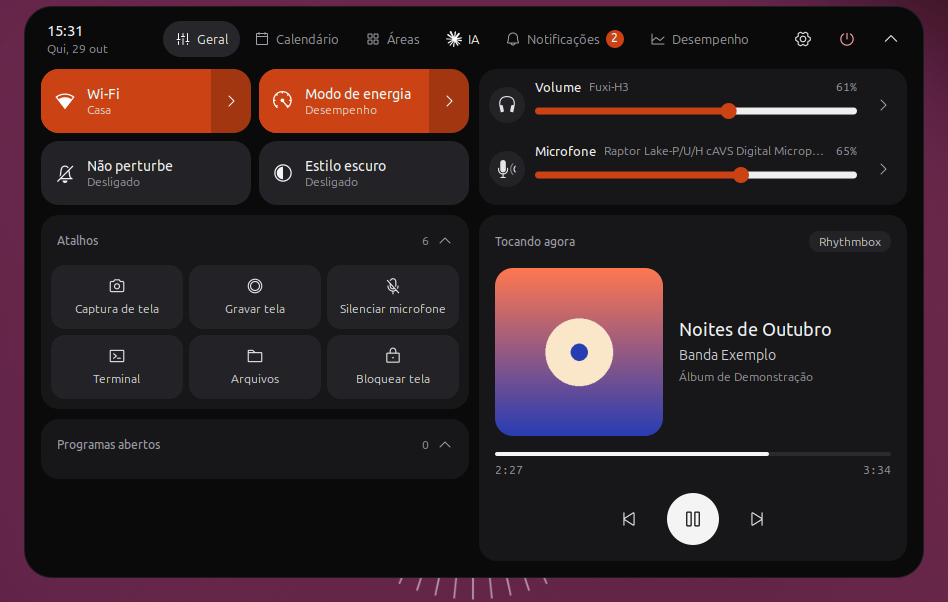
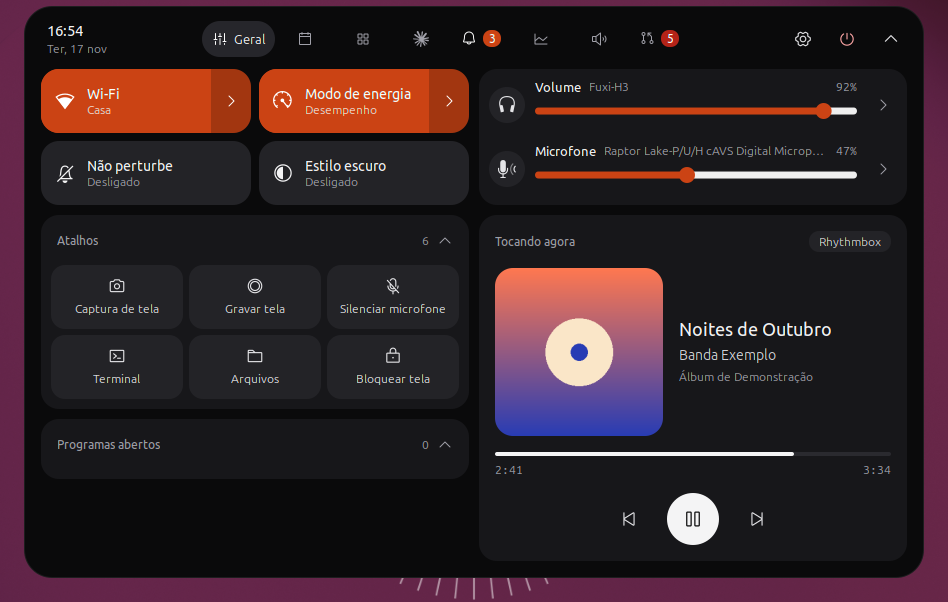
docs: github na ilha e abas só com ícone

diff --git a/linux/README.md b/linux/README.md
@@ -1,12 +1,13 @@
 # Frodo para Linux
 
-Versão GNOME Shell do [Frodo](../README.md). Dynamic island leve para GNOME Shell 50. A pílula mostra hora, bateria, RAM e uso do Claude Code, Codex e Gemini CLI e muda conforme o que acontece no sistema; ao abrir, vira uma ilha com seis abas.
+Versão GNOME Shell do [Frodo](../README.md). Dynamic island leve para GNOME Shell 50. A pílula mostra hora, bateria, RAM e uso do Claude Code, Codex e Gemini CLI e muda conforme o que acontece no sistema; ao abrir, vira uma ilha com oito abas, uma delas com os pull requests do GitHub que precisam de você.
 
 Roda dentro do próprio gnome-shell (sem processo extra). Escrita em TypeScript e compilada para JavaScript.
 
 <p align="center"><img src="docs/demo.gif" alt="Pílula recebendo uma notificação e mostrando o Claude trabalhando; depois a ilha abre e passa pelas abas" width="720"></p>
 
 - [Abas](#abas)
+- [GitHub](#github)
 - [Estados da pílula](#estados-da-pílula)
 - [Posição](#posição), [Fundo](#fundo) e [Animações](#animações)
 - [Instalação](#instalação)
@@ -24,6 +25,9 @@ Roda dentro do próprio gnome-shell (sem processo extra). Escrita em TypeScript 
 | Notificações      | Lista de notificações, não perturbe e limpar tudo                                                                                                                                                                                                                                                          |
 | Desempenho        | CPU, memória, GPU e disco, com histórico de 60 s; os 5 processos que mais gastam, ordenáveis por CPU, RAM ou GPU, com botão para encerrar (pede confirmação; processos de outro usuário ou essenciais à sessão têm cadeado). Só lê `/proc` com a aba aberta                                                |
 | Mixer             | Volume e silenciar de cada app com som aberto (mais Sons do sistema), a saída e o microfone com troca de dispositivo e os apps usando o microfone, cada um com Silenciar/Ativar                                                                                                                            |
+| GitHub            | Seus pull requests abertos que precisam de algo (conflito, alterações pedidas, CI falhando, pronto para merge) e as revisões pedidas a você, com filtros, detalhe de cada PR, checks e o contador de alertas no cabeçalho. Veja [GitHub](#github)                                                          |
+
+No cabeçalho, só a aba selecionada mostra o nome; as outras ficam só com o ícone (e o contador, quando há).
 
 <table>
   <tr>
@@ -38,30 +42,45 @@ Roda dentro do próprio gnome-shell (sem processo extra). Escrita em TypeScript 
     <td><img src="docs/desempenho.png" alt="Aba Desempenho: CPU, memória, GPU, disco e processos"><br><sub>Desempenho</sub></td>
     <td><img src="docs/areas.png" alt="Aba Áreas de trabalho com duas áreas e o card Nova área"><br><sub>Áreas de trabalho</sub></td>
   </tr>
+  <tr>
+    <td><img src="docs/github.png" alt="Aba GitHub: filtros, PRs com conflito, alterações pedidas, CI falhando, revisões e pronto para merge"><br><sub>GitHub</sub></td>
+    <td><img src="docs/github-conflito.png" alt="Aba GitHub com um PR em conflito aberto: comando de rebase, checks e botões"><br><sub>GitHub · PR em conflito</sub></td>
+  </tr>
 </table>
 
-A engrenagem do cabeçalho abre as configurações, todas dentro da ilha, numa barra lateral com seis seções: Geral (comportamento e atalhos), Tela e posição (grade 3×3, monitores, fundo e barra superior), Pílula, Abas, IA (intervalo de atualização, restante ou usado, e um grupo por assistente com o switch Acompanhar, perfis do Claude, hooks do Codex e do Gemini e limite diário do Gemini) e Agenda (Google Agenda e aviso antes da reunião); não há janela de preferências separada. O botão ao lado dela abre o menu de energia (suspender, encerrar sessão, reiniciar e desligar). Durante uma gravação de tela, o cabeçalho mostra Parar gravação. Em Configurações › Abas dá para ocultar cada aba e mudar a ordem delas arrastando pela alça (ou com ↑ ↓ na alça focada); a ilha abre na primeira aba visível. Se todas forem ocultadas, a primeira continua visível.
+A engrenagem do cabeçalho abre as configurações, todas dentro da ilha, numa barra lateral com sete seções: Geral (comportamento e atalhos), Tela e posição (grade 3×3, monitores, fundo e barra superior), Pílula, Abas, IA (intervalo de atualização, restante ou usado, e um grupo por assistente com o switch Acompanhar, perfis do Claude, hooks do Codex e do Gemini e limite diário do Gemini), GitHub (conta, repositórios, alertas e onde avisar) e Agenda (Google Agenda e aviso antes da reunião); não há janela de preferências separada. O botão ao lado dela abre o menu de energia (suspender, encerrar sessão, reiniciar e desligar). Durante uma gravação de tela, o cabeçalho mostra Parar gravação. Em Configurações › Abas dá para ocultar cada aba e mudar a ordem delas arrastando pela alça (ou com ↑ ↓ na alça focada); a ilha abre na primeira aba visível. Se todas forem ocultadas, a primeira continua visível.
 
 <p align="center"><img src="docs/configuracoes.png" alt="Configurações dentro da ilha: barra lateral com seções e a seção Geral aberta" width="640"></p>
+
+## GitHub
+
+A aba GitHub lê os seus pull requests abertos e as revisões pedidas diretamente a você pela API GraphQL do GitHub, com o token que o GitHub CLI já guardou no chaveiro do GNOME (`gh auth login`); sem chaveiro, ele lê o `~/.config/gh/hosts.yml`. Em Configurações › GitHub dá para trocar para um token pessoal (só leitura de PRs e checks), salvo no chaveiro e nunca no GSettings. A busca roda a cada 2, 5, 10 ou 15 min (padrão 5), de 20 em 20 PRs, sem lançar processo; "Todos os meus" busca em qualquer repositório e "Só estes" limita a uma lista `dono/repositório`.
+
+Cada PR ganha um tipo, nesta ordem: Conflito (o merge não sai sozinho; mostra quantos commits a base recebeu e o comando de rebase para copiar), Alterações pedidas (com o texto da revisão), CI falhou (com os checks), Revisão pedida a você e Pronto para merge. PR seu que só espera revisão ou checks rodando fica de fora. O botão principal abre o PR no navegador (no CI, a aba de checks; na revisão, os arquivos). Pedido de revisão feito só ao seu time não aparece.
+
+Um alerta sai quando um PR entra num tipo ligado em "Alertar quando" (conflito, alterações pedidas, CI e revisão): na pílula, por 5 segundos, com o botão Ver, que abre a aba no PR; na aba Notificações, sem banner, até você abrir ou dispensar; e no contador vermelho do cabeçalho. Cada um desses três tem o seu switch em "Onde avisar". O primeiro ciclo ao entrar na sessão, ao trocar de conta ou de repositórios só registra o que já existe, sem avisar. Dá para silenciar um PR pelo detalhe dele.
+
+<p align="center"><img src="docs/configuracoes-github.png" alt="Configurações › GitHub: conta, como conecta, repositórios, alertas e onde avisar" width="640"></p>
 
 ## Estados da pílula
 
 <p align="center"><img src="docs/pilula-repouso.png" alt="Pílula em repouso com hora, data, notificações, rede e bateria"></p>
 
-Fechada, a pílula mostra hora, data, notificações, rede e bateria. Em Configurações › Pílula dá para escolher o modo (Mínimo, só o relógio; Compacto, tudo junto; Rotativo, com bateria, RAM e as cotas de IA revezando num espaço a cada poucos segundos), a ordem dos itens (arrastando o chip pela alça, ou com ← → na alça focada) e quais entram, com uma prévia da pílula de verdade no topo. Os ícones do sistema podem entrar separados (Bluetooth, Som, Microfone, Não perturbe e Bateria, os mesmos da barra superior, que só aparecem quando o GNOME os mostra; "Mostrar porcentagem da bateria" em Configurações › Pílula liga a porcentagem nativa do GNOME; "RAM em porcentagem" troca `RAM 9.8G` por `RAM 61%`) e o resto fica em "Outros ícones do sistema", sem repetir rede e bateria. Codex · 5 h, Codex · semana e Gemini · hoje entram com um anel na cor do assistente; itens de um assistente desligado em Configurações › IA somem. Há também "Ícones de extensões": os indicadores que outras extensões põem na barra superior (AppIndicator, monitores de recurso e afins) aparecem na pílula, só para ver; clicar continua abrindo a ilha. Quando algo acontece, ela troca para uma atividade por no máximo 5 segundos e volta ao repouso; a mesma atividade só reaparece quando muda (gravação nova, outra faixa, música retomada). A IA trabalhando (Claude Code, Codex e Gemini CLI, com o repo e o arquivo ou comando do passo) segue "Atividade da IA" em Configurações › Pílula: Ao mudar (padrão) mostra cada passo novo por 3 segundos e ignora as trocas da mesma sessão nos 10 segundos seguintes, para não piscar; Sempre deixa a sessão com o evento mais recente na pílula enquanto trabalha; Nunca não mostra. Pedido de permissão e sessão esperando aparecem em qualquer modo. Abrir a ilha dá como vistas as atividades em andamento. Com mais de uma ao mesmo tempo, vale esta ordem de prioridade, e a que foi interrompida volta depois com o tempo inteiro (5 segundos; 3 para a IA trabalhando):
+Fechada, a pílula mostra hora, data, notificações, rede e bateria. Em Configurações › Pílula dá para escolher o modo (Mínimo, só o relógio; Compacto, tudo junto; Rotativo, com bateria, RAM e as cotas de IA revezando num espaço a cada poucos segundos), a ordem dos itens (arrastando o chip pela alça, ou com ← → na alça focada) e quais entram, com uma prévia da pílula de verdade no topo. Os ícones do sistema podem entrar separados (Bluetooth, Som, Microfone, Não perturbe e Bateria, os mesmos da barra superior, que só aparecem quando o GNOME os mostra; "Mostrar porcentagem da bateria" em Configurações › Pílula liga a porcentagem nativa do GNOME; "RAM em porcentagem" troca `RAM 9.8G` por `RAM 61%`) e o resto fica em "Outros ícones do sistema", sem repetir rede e bateria. Codex · 5 h, Codex · semana e Gemini · hoje entram com um anel na cor do assistente; itens de um assistente desligado em Configurações › IA somem. O item GitHub mostra o ícone de PR com o número de alertas (some quando não há). Há também "Ícones de extensões": os indicadores que outras extensões põem na barra superior (AppIndicator, monitores de recurso e afins) aparecem na pílula, só para ver; clicar continua abrindo a ilha. Quando algo acontece, ela troca para uma atividade por no máximo 5 segundos e volta ao repouso; a mesma atividade só reaparece quando muda (gravação nova, outra faixa, música retomada). A IA trabalhando (Claude Code, Codex e Gemini CLI, com o repo e o arquivo ou comando do passo) segue "Atividade da IA" em Configurações › Pílula: Ao mudar (padrão) mostra cada passo novo por 3 segundos e ignora as trocas da mesma sessão nos 10 segundos seguintes, para não piscar; Sempre deixa a sessão com o evento mais recente na pílula enquanto trabalha; Nunca não mostra. Pedido de permissão e sessão esperando aparecem em qualquer modo. Abrir a ilha dá como vistas as atividades em andamento. Com mais de uma ao mesmo tempo, vale esta ordem de prioridade, e a que foi interrompida volta depois com o tempo inteiro (5 segundos; 3 para a IA trabalhando):
 
 1. Notificação recebida (qualquer uma que não seja crítica), por 5 segundos cada. Vira um card com o avatar arredondado, o app, o título e o corpo. Notificações que chegam com a tela bloqueada aparecem na pílula ao desbloquear. Quando a RAM passa de 90% em uso, o Frodo manda a notificação "Memória alta" (de novo só depois de cair abaixo de 80%). Quando uma sessão do Claude Code, Codex ou Gemini CLI termina a resposta, sai "Pronto" com o ícone e o nome do assistente e o repo (desliga em Configurações › IA › Uso, "Avisar quando terminar"). Quando uma cota (Claude 5 h e semana, Codex 5 h e semana, Gemini dia) cruza 80% ou 95%, sai "Cota em 80%" ou "Cota em 95%", uma vez por janela e com o ícone do assistente, e "Cota renovada" quando ela volta para baixo de 80% ("Avisar cota em 80% e 95%", no mesmo lugar).
 2. Gravação de tela, com o tempo e o botão Parar (o cabeçalho da ilha também tem Parar gravação).
 3. Pedido de permissão do Claude Code ou do Codex, com a ferramenta e os botões Negar e Aprovar (o mais antigo, se houver vários).
 4. Sessão esperando permissão sem pedido aberto pela ilha (sempre o caso do Gemini CLI), com o botão Abrir.
 5. Reunião em breve, com a contagem regressiva e o botão Entrar quando o evento tem link do Google Meet (lido do Evolution Data Server); sem link, o botão Abrir leva ao Calendário.
-6. Volume alterado, por 1,5 segundo.
-7. Sessão de IA trabalhando, com o repo, o passo (arquivo ou comando) e o tempo, conforme "Atividade da IA" (Ao mudar, Sempre ou Nunca).
-8. Música tocando, com capa redonda, título e botão de pausa.
+6. Alerta do GitHub ("frodo#42 está com conflito"), por 5 segundos, com o botão Ver; vários no mesmo ciclo mostram o mais importante e "+N".
+7. Volume alterado, por 1,5 segundo.
+8. Sessão de IA trabalhando, com o repo, o passo (arquivo ou comando) e o tempo, conforme "Atividade da IA" (Ao mudar, Sempre ou Nunca).
+9. Música tocando, com capa redonda, título e botão de pausa.
 
-| Notificação                                                              | Pedido de permissão                                                    | Sessão trabalhando                                                          |
-| ------------------------------------------------------------------------ | ---------------------------------------------------------------------- | --------------------------------------------------------------------------- |
-| <img src="docs/pilula-notificacao.png" alt="Pílula com uma notificação"> | <img src="docs/pilula-permissao.png" alt="Pílula com Negar e Aprovar"> | <img src="docs/pilula-claude.png" alt="Pílula com o passo atual do Claude"> |
+| Notificação                                                              | Pedido de permissão                                                    | Sessão trabalhando                                                          | Alerta do GitHub                                                      |
+| ------------------------------------------------------------------------ | ---------------------------------------------------------------------- | --------------------------------------------------------------------------- | --------------------------------------------------------------------- |
+| <img src="docs/pilula-notificacao.png" alt="Pílula com uma notificação"> | <img src="docs/pilula-permissao.png" alt="Pílula com Negar e Aprovar"> | <img src="docs/pilula-claude.png" alt="Pílula com o passo atual do Claude"> | <img src="docs/pilula-github.png" alt="Pílula com um PR em conflito"> |
 
 Clicar ou passar o mouse na pílula durante uma notificação abre a ilha na aba Notificações; durante uma sessão de IA trabalhando, na aba IA. Sem atividade, ela abre na Geral.
 
@@ -269,7 +288,7 @@ Em Configurações › IA, "Instalar hook" acrescenta o mesmo `hooks/claude-sess
 
 ## Imagens
 
-As imagens deste README e do da raiz saem de `npm run screenshots` (`tools/screenshots/run.sh`). Ele sobe um gnome-shell headless isolado, como o smoke, com dados de exemplo: sessões do Claude Code pelo hook de verdade, cotas do Codex num rollout falso, eventos num calendário local, notificações por `notify-send` e um player MPRIS (`tools/screenshots/mpris.js`). Uma extensão auxiliar (`tools/screenshots/probe/`) libera o `Eval` do shell e move um ponteiro virtual só para passar o mouse na pílula; abas e botões são acionados com `emit('clicked')`, sem clique de verdade, para não mexer no Wi-Fi ou Bluetooth reais. O nome da rede no tile de Wi-Fi vira "Casa".
+As imagens deste README e do da raiz saem de `npm run screenshots` (`tools/screenshots/run.sh`). Ele sobe um gnome-shell headless isolado, como o smoke, com dados de exemplo: sessões do Claude Code pelo hook de verdade, cotas do Codex num rollout falso, eventos num calendário local, notificações por `notify-send`, um player MPRIS (`tools/screenshots/mpris.js`) e um GitHub falso (`tools/screenshots/github.py`, apontado por `FRODO_GITHUB_GRAPHQL_URL`, com um token de mentira no `hosts.yml` do ambiente isolado). Uma extensão auxiliar (`tools/screenshots/probe/`) libera o `Eval` do shell e move um ponteiro virtual só para passar o mouse na pílula; abas e botões são acionados com `emit('clicked')`, sem clique de verdade, para não mexer no Wi-Fi ou Bluetooth reais. O nome da rede no tile de Wi-Fi vira "Casa".
 
 O GIF é gravado pelo `org.gnome.Shell.Screencast`, convertido em quadros pelo GStreamer e montado pelo `tools/screenshots/gif.py` (Pillow). Precisa de `gst-launch-1.0` com o decodificador do MP4 e de `python3-pil`. Rode de novo quando a UI mudar e confira as imagens antes do commit.
 
@@ -286,8 +305,9 @@ src/
                           island-pointer.ts (hover e borda), island-placement.ts (posição), island-presence.ts
                           (pílula coberta e espiada) e island-surface.ts (vidro)
   pill/                   pílula: visão ociosa, visão de atividade, feed e prioridade das atividades
-  tabs/<aba>/             uma pasta por aba: general, calendar, workspaces, claude (aba IA), notifications, performance, mixer, settings
-  features/<domínio>/     regra pura e serviço de cada fonte de dados: claude, codex, gemini, media, meetings,
+  tabs/<aba>/             uma pasta por aba: general, calendar, workspaces, claude (aba IA), notifications, performance, mixer,
+                          github, settings
+  features/<domínio>/     regra pura e serviço de cada fonte de dados: claude, codex, gemini, github, media, meetings,
                           notifications, system, workspaces
   settings/               GSettings tipado, valores do schema, perfis do Claude, atalho e abas
   shared/                 Emitter, Disposables, Timer, formatação, geometria, curva de mola, leitura de arquivo, nível,

diff --git a/README.md b/README.md
@@ -7,7 +7,7 @@ Dynamic island para o desktop: uma pílula no topo da tela com hora, bateria, RA
 ## O que faz
 
 - **Pílula que reage:** notificação recebida, pedido de permissão do Claude Code ou do Codex (com Negar e Aprovar ali mesmo), sessão de IA trabalhando, reunião chegando, gravação de tela, volume e música.
-- **Ilha com abas:** controles do sistema e player, calendário, áreas de trabalho, IA (cotas, consumo e sessões do Claude Code, Codex e Gemini CLI), notificações e desempenho.
+- **Ilha com abas:** controles do sistema e player, calendário, áreas de trabalho, IA (cotas, consumo e sessões do Claude Code, Codex e Gemini CLI), GitHub (PRs com conflito, alterações pedidas e CI falhando, com alerta na pílula), notificações e desempenho.
 - **Configurável por dentro:** posição em qualquer borda, fundo sólido, fosco ou translúcido, itens e ordem da pílula, abas visíveis e atalhos.
 
 <table>
